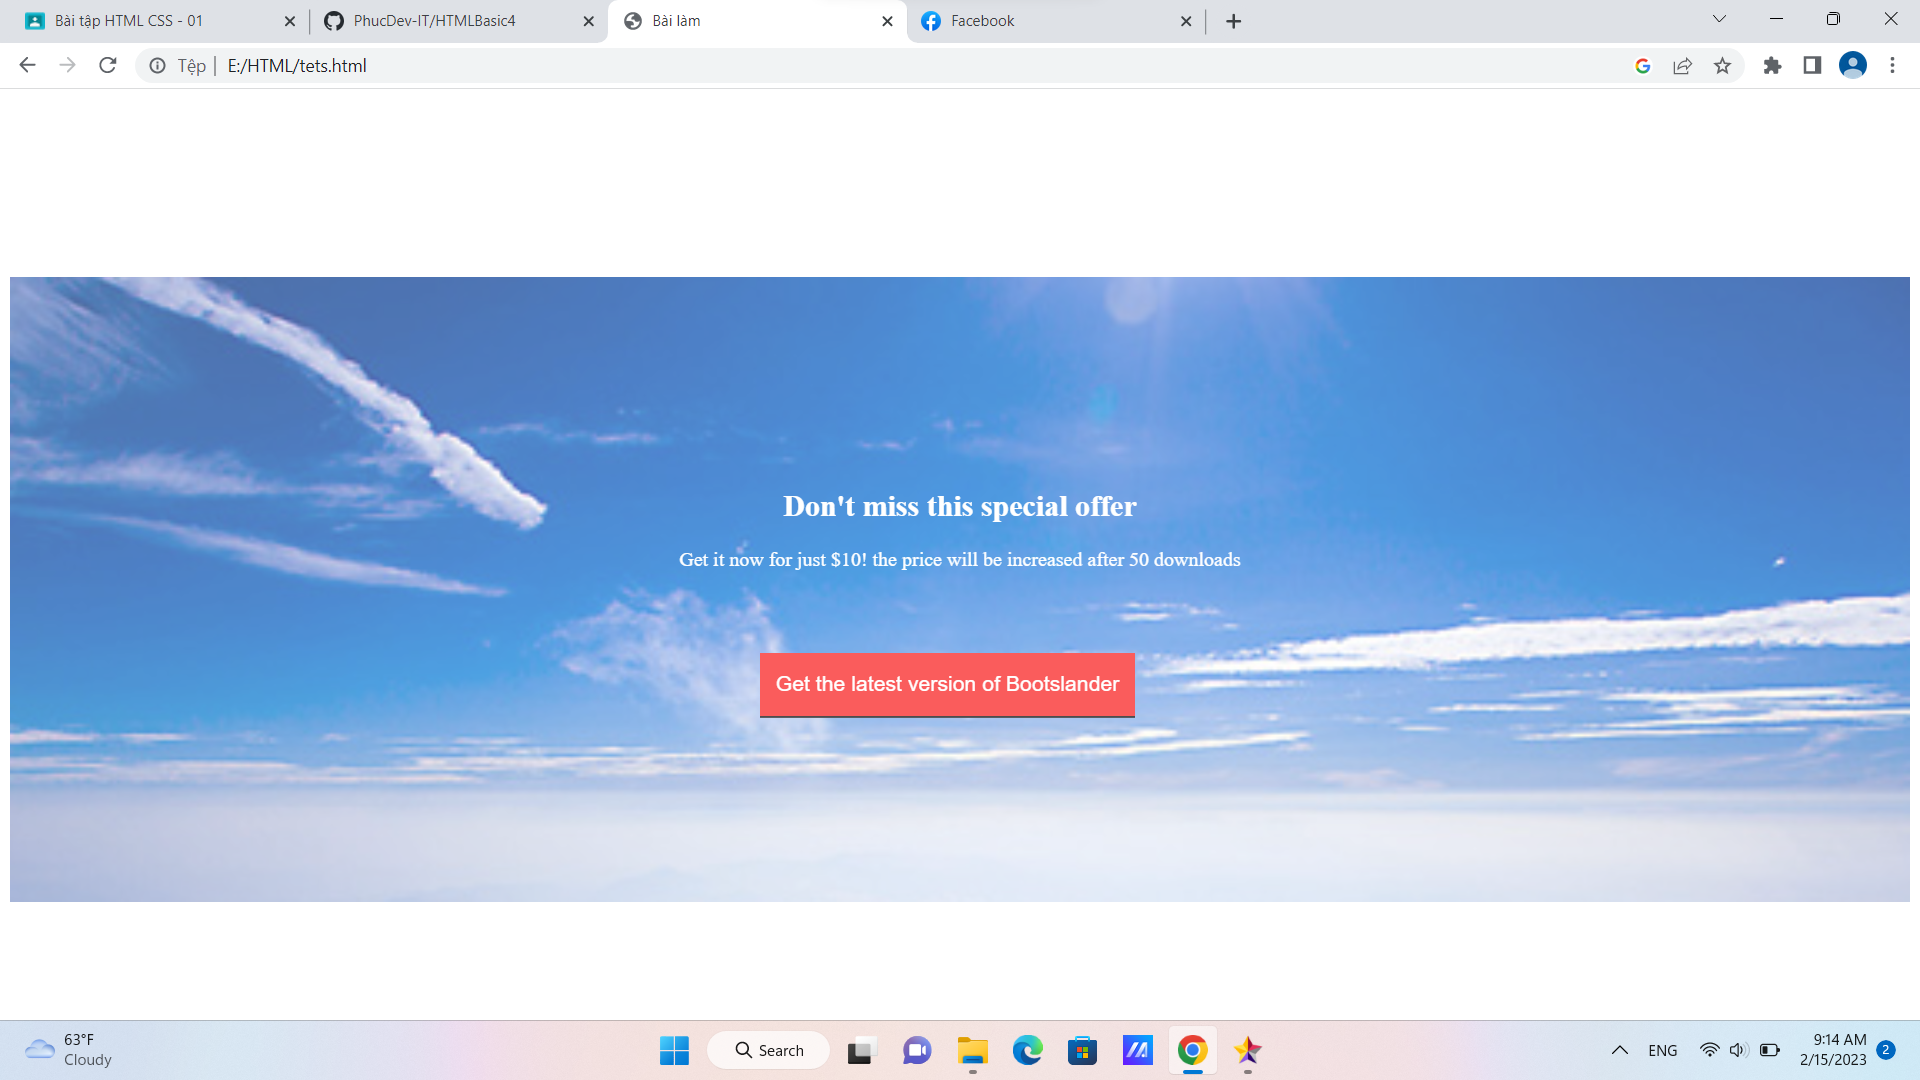
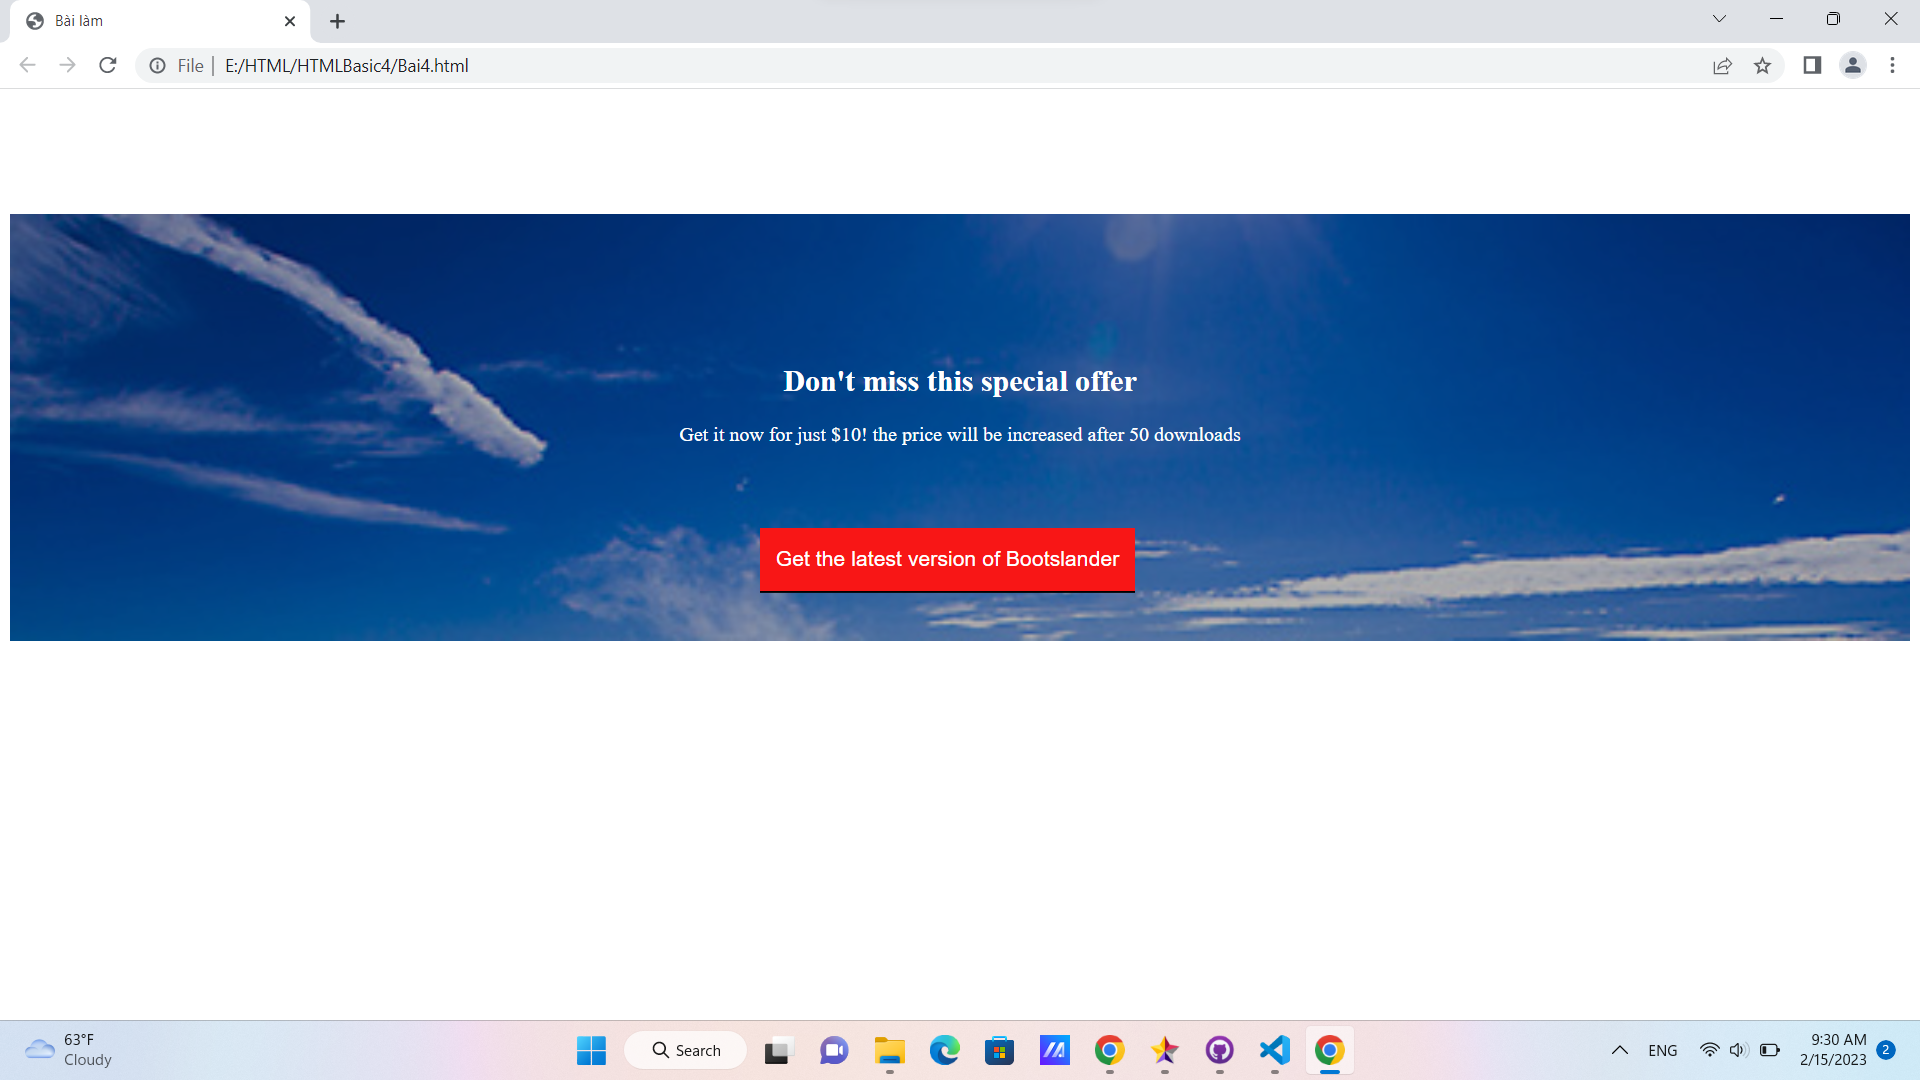
update

diff --git a/Bai4.html b/Bai4.html
@@ -9,45 +9,40 @@
 
 
 	<style>
-		
 		.container {
-			
+
 			width: 100%;
-			height: 500px;
-			background:url("https://d1hjkbq40fs2x4.cloudfront.net/2016-01-31/files/1045.jpg");
+			height: 100%;
+			background: url("https://d1hjkbq40fs2x4.cloudfront.net/2016-01-31/files/1045.jpg");
 			background-repeat: no-repeat;
-			margin: 150px 0px 0px 0px;
+			margin: 100px 0px 0px 0px;
 			background-size: cover;
-			opacity: 0.7;
-			
-			
+	
 		}
-		
+
 		.content {
-			
+			width: 100%;
+			height: 100%;
+			background: rgba(0,0,0,0.3);
 			text-align: center;
-			padding-top: 150px;
+			padding-top: 100px;
 			color: #fff;
-			
-			
 		}
-		
+
 		.click {
 			background-color: rgb(248, 22, 22);
 			width: 300px;
 			height: 50px;
-			margin: 50px 20px 10px 0px;
+			margin: 50px 20px 40px 0px;
 			padding: 10px;
 			font-size: 17px;
 			color: #fff;
 			text-align: center;
 			border: #fff solid 0px;
-			
 			box-shadow: 0 1.5px black;
-
 		}
 
-		.click:hover{
+		.click:hover {
 			background-color: rgb(113, 211, 211);
 			transition: 0.3;
 		}
